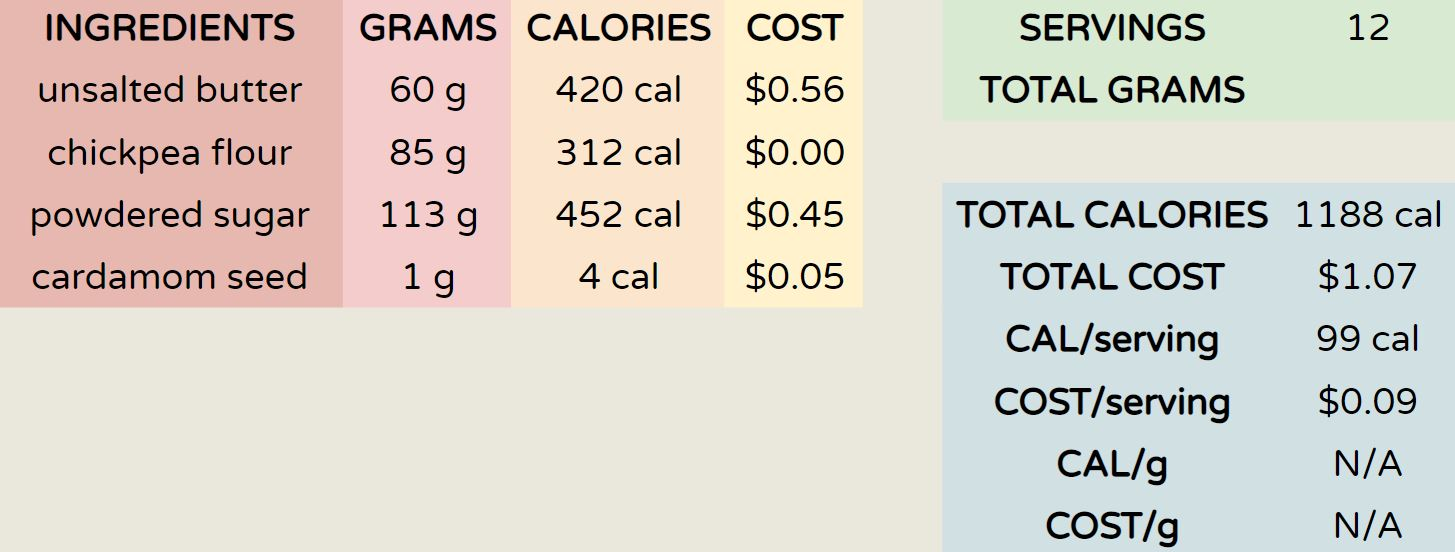
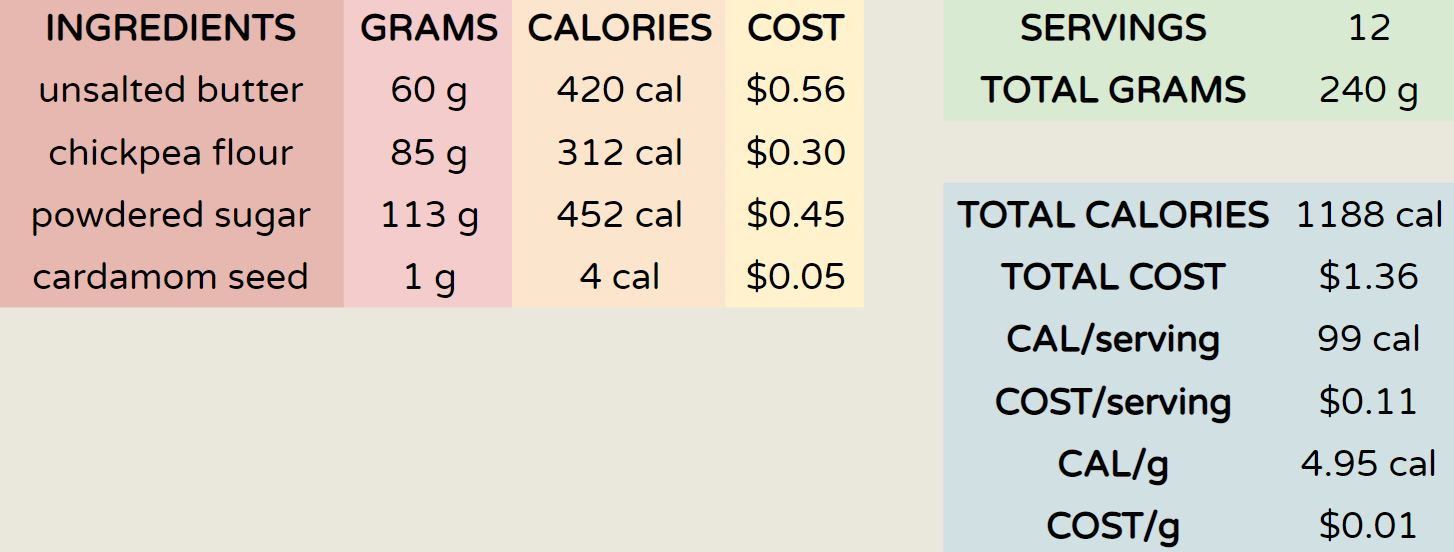
s

diff --git a/_posts/2019-03-22-easiest-ladoos-ever.md b/_posts/2019-03-22-easiest-ladoos-ever.md
@@ -21,7 +21,7 @@ cooktime: "PT1H"
 preptime: "PT1H"
 totaltime: "PT1H"
 
-cost: "0.02"
+cost: "0.11"
 calories: "99 calories"
 servings: "12"
 
